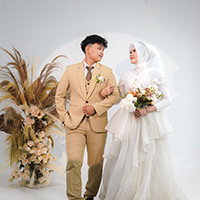
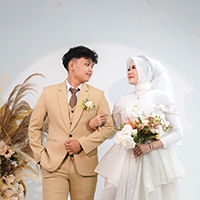
Update name in detail section for accuracy

diff --git a/index.html b/index.html
@@ -368,7 +368,7 @@
                 <div class="detail-rek">
                   <img src="assets/img/chip-atm-1-2-1.png" alt="">
                   <p id="textSalin2">081809603887</p>
-                  <p id="yani">Muhammad Fadli Nur</p>
+                  <p id="yani">Muhammad Nur Fadli </p>
   
                 </div>
                 <div class="copy-rek">
